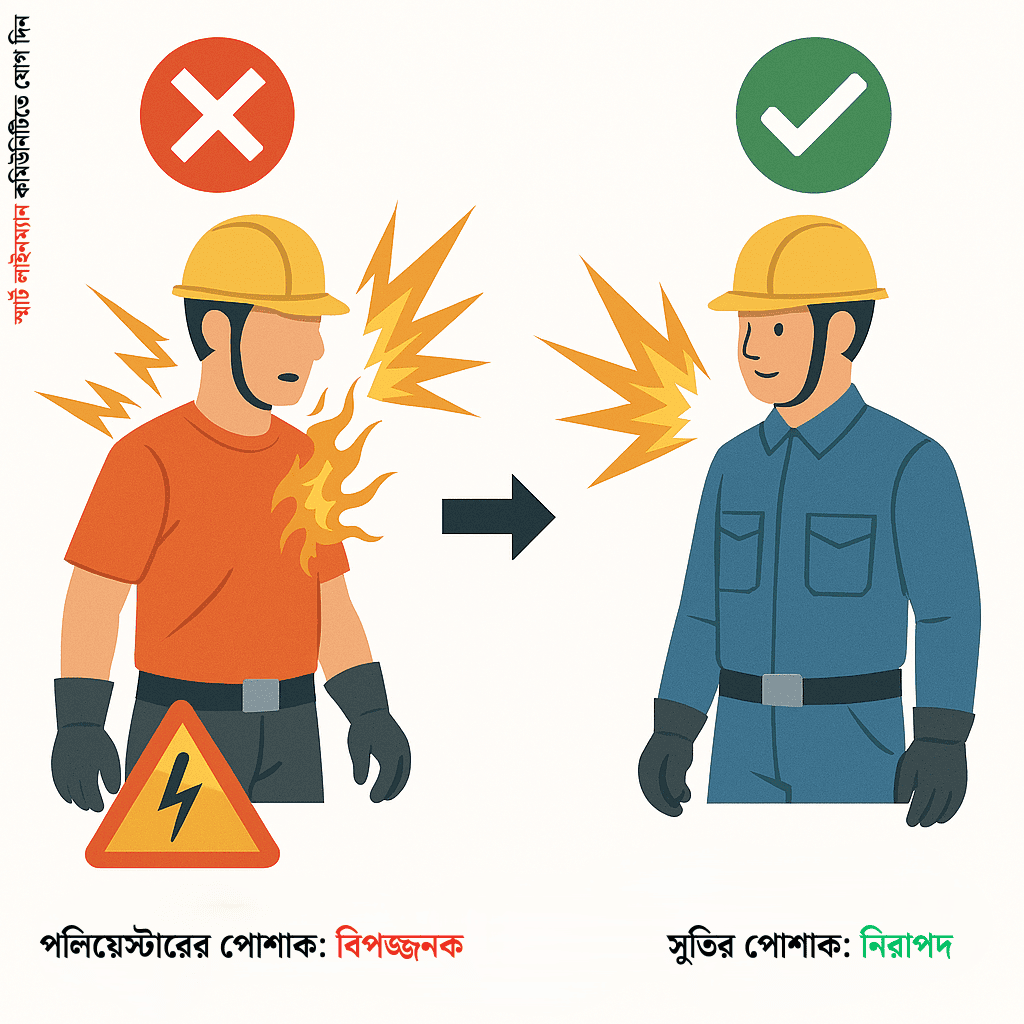
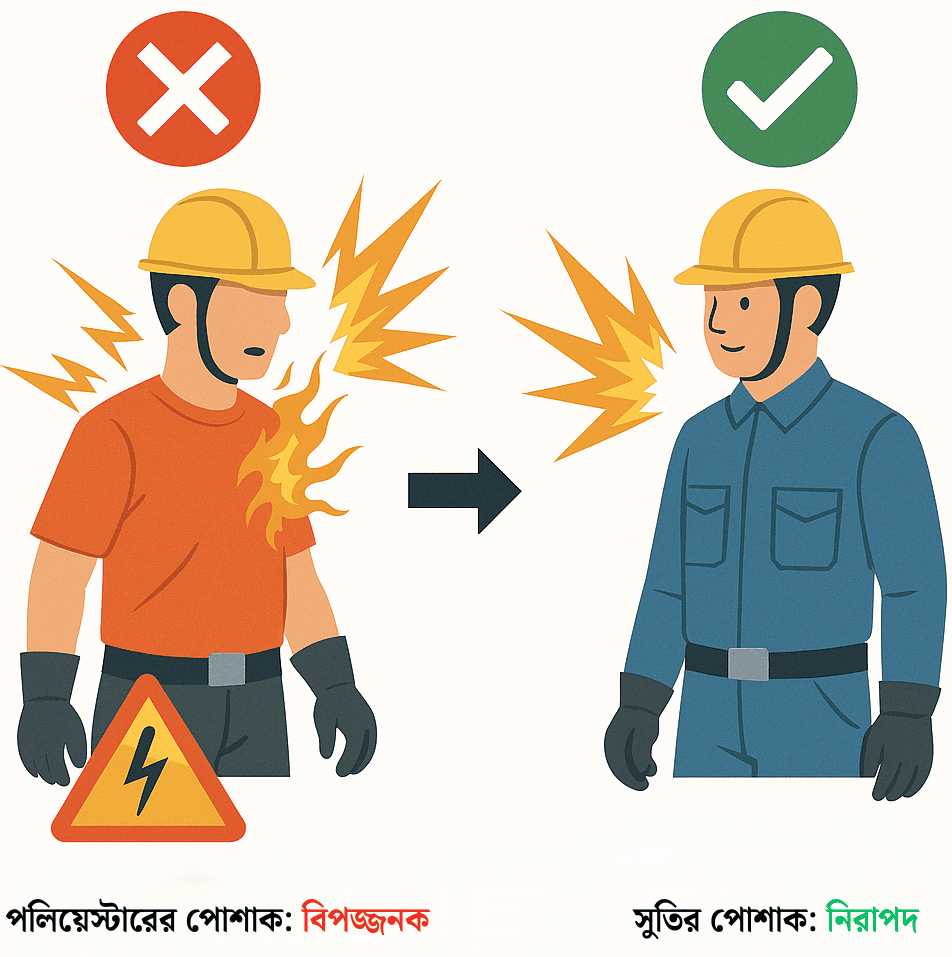
feat: add PPE images and captions to lesson 1.1
Add loader/faq PPE assets, inline figure captions, cleaner Training reader image layout, /images media URL support, and Supabase migration for versioned rollout.

diff --git a/src/components/safety/Training.jsx b/src/components/safety/Training.jsx
@@ -758,9 +758,17 @@ function TrainingInlineMediaChip({ isImage, resolvedMedia, labelText, authorLabe
     );
 }
 
-/** Lesson figure — matches Know More chapter step images (AroJanun). Tap opens enlarge modal. */
+/** Lesson figure — full-width card on topic cards; inline figures span their text box. Tap opens enlarge modal. */
 function TrainingLessonFigure({ src, alt, caption, onClick, language, className = '', inlineFloat = false }) {
     const enlargeLabel = language === 'en' ? 'Tap to enlarge' : 'বড় করে দেখতে ট্যাপ করুন';
+    const isInline = inlineFloat;
+
+    const buttonClass = isInline
+        ? `my-4 block w-full overflow-hidden bg-transparent p-0 text-left ${className}`
+        : `my-4 block w-full max-w-lg overflow-hidden bg-transparent p-0 text-left clear-both ${className}`;
+
+    const captionClass = `mb-2 text-center text-xs font-black text-slate-600 nb-mono ${language === 'bn' ? 'font-bengali' : ''}`;
+
     return (
         <button
             type="button"
@@ -770,14 +778,15 @@ function TrainingLessonFigure({ src, alt, caption, onClick, language, className 
                 onClick?.();
             }}
             title={enlargeLabel}
-            className={`my-4 block w-full max-w-lg overflow-hidden border-2 border-slate-900 bg-white p-2 text-left shadow-[4px_4px_0_#0f172a] transition-transform duration-150 hover:-translate-y-0.5 ${inlineFloat ? 'sm:float-right sm:ml-5 sm:mr-0 sm:shrink-0' : 'clear-both'} ${className}`}
+            aria-label={caption ? `${caption} — ${enlargeLabel}` : enlargeLabel}
+            className={buttonClass}
         >
             {caption && (
-                <p className="mb-2 border-b border-dashed border-slate-300 pb-2 text-center text-xs font-black text-slate-600 nb-mono">
+                <p className={captionClass}>
                     {caption}
                 </p>
             )}
-            <img src={src} alt={alt} className="h-auto w-full object-contain" loading="lazy" />
+            <img src={src} alt={alt} className="h-auto w-full rounded-sm object-contain" loading="lazy" />
         </button>
     );
 }
@@ -823,18 +832,23 @@ function SectionPointFullCard({
                     {point.image_name && (
                         <TrainingLessonFigure
                             src={resolveTrainingMediaSrc(point.image_name)}
-                            alt={point.item_name}
+                            alt={point.image_caption || point.item_name}
+                            caption={point.image_caption}
                             language={language}
                             className={readingComfort ? 'mb-7 sm:mb-9' : 'mb-8 sm:mb-10'}
-                            onClick={() => setActiveImageModal({ type: 'image', value: resolveTrainingMediaSrc(point.image_name) })}
+                            onClick={() => setActiveImageModal({
+                                type: 'image',
+                                value: resolveTrainingMediaSrc(point.image_name),
+                                caption: point.image_caption,
+                            })}
                         />
                     )}
 
                     <div className={readingComfort ? 'space-y-7 sm:space-y-10' : 'space-y-6 sm:space-y-8'}>
                         {point.specifications && (
-                            <p className={specCls}>
+                            <div className={`${specCls} space-y-2`}>
                                 {renderTextWithImages(point.specifications)}
-                            </p>
+                            </div>
                         )}
 
                         <div className={`grid grid-cols-1 ${readingComfort ? 'gap-7 sm:gap-8' : 'gap-6'}`}>
@@ -843,9 +857,9 @@ function SectionPointFullCard({
                                     <div className="flex items-center gap-3 mb-3 sm:mb-4">
                                         <span className="text-[10px] sm:text-xs font-black uppercase tracking-widest text-blue-700 nb-mono">{language === 'en' ? 'Strategy' : 'কৌশল'}</span>
                                     </div>
-                                    <p className={boxBody}>
+                                    <div className={boxBody}>
                                         {renderTextWithImages(point.importance)}
-                                    </p>
+                                    </div>
                                 </div>
                             )}
                             {point.daily_check && (
@@ -853,9 +867,9 @@ function SectionPointFullCard({
                                     <div className="flex items-center gap-3 mb-3 sm:mb-4">
                                         <span className="text-[10px] sm:text-xs font-black uppercase tracking-widest text-emerald-700 nb-mono">{language === 'en' ? 'Action Plan' : 'কর্মপরিকল্পনা'}</span>
                                     </div>
-                                    <p className={boxBody}>
+                                    <div className={boxBody}>
                                         {renderTextWithImages(point.daily_check)}
-                                    </p>
+                                    </div>
                                 </div>
                             )}
                         </div>
@@ -1883,19 +1897,23 @@ export default function Training({
                 );
             } else if (part.startsWith('[[') && part.endsWith(']]')) {
                 const inner = part.slice(2, -2).trim();
-                const pipeIdx = inner.indexOf('|');
-                const imgPathRaw = pipeIdx >= 0 ? inner.slice(0, pipeIdx).trim() : inner;
-                const layoutFlag = pipeIdx >= 0 ? inner.slice(pipeIdx + 1).trim().toLowerCase() : '';
-                const isInlineFigure = layoutFlag === 'inline';
+                const segments = inner.split('|').map((s) => s.trim());
+                const imgPathRaw = segments[0];
+                const isInlineFigure = segments.some((s) => s.toLowerCase() === 'inline');
+                const figureCaption = segments
+                    .slice(1)
+                    .filter((s) => s.toLowerCase() !== 'inline')
+                    .join(' | ') || undefined;
                 const resolvedSrc = resolveTrainingMediaSrc(imgPathRaw);
-                const openModal = () => setActiveImageModal({ type: 'image', value: resolvedSrc });
+                const openModal = () => setActiveImageModal({ type: 'image', value: resolvedSrc, caption: figureCaption });
 
                 if (isInlineFigure) {
                     return (
                         <TrainingLessonFigure
                             key={index}
                             src={resolvedSrc}
-                            alt=""
+                            alt={figureCaption || ''}
+                            caption={figureCaption}
                             language={language}
                             inlineFloat
                             onClick={openModal}
@@ -1907,7 +1925,8 @@ export default function Training({
                     <TrainingLessonFigure
                         key={index}
                         src={resolvedSrc}
-                        alt="Inline lesson helper"
+                        alt={figureCaption || 'Inline lesson helper'}
+                        caption={figureCaption}
                         language={language}
                         onClick={openModal}
                     />
@@ -4279,9 +4298,9 @@ export default function Training({
                                                                     <span className="mb-3 block text-[10px] font-black uppercase tracking-widest text-emerald-600 nb-mono">
                                                                         {language === 'en' ? 'Verdict' : 'আসল কথা'}
                                                                     </span>
-                                                                    <p className={`text-lg font-bold leading-[1.9] text-slate-900 sm:text-xl ${language === 'bn' ? 'font-bengali text-xl leading-[2.1] sm:text-2xl' : ''}`}>
+                                                                    <div className={`text-lg font-bold leading-[1.9] text-slate-900 sm:text-xl ${language === 'bn' ? 'font-bengali text-xl leading-[2.1] sm:text-2xl' : ''}`}>
                                                                         {renderTextWithImages(item.reality || item.fact)}
-                                                                    </p>
+                                                                    </div>
                                                                 </div>
                                                             </div>
                                                         ))}
@@ -4488,11 +4507,16 @@ export default function Training({
                             </button>
 
                             {activeImageModal.type === 'image' ? (
-                                <div className="flex min-h-0 flex-1 items-center justify-center bg-white p-4 pt-14 sm:p-8 sm:pt-16">
+                                <div className="flex min-h-0 flex-1 flex-col items-center justify-center bg-white p-4 pt-14 sm:p-8 sm:pt-16">
+                                    {activeImageModal.caption && (
+                                        <p className={`mb-3 max-w-full px-2 text-center text-xs font-black text-slate-600 nb-mono sm:text-sm ${language === 'bn' ? 'font-bengali' : ''}`}>
+                                            {activeImageModal.caption}
+                                        </p>
+                                    )}
                                     <img
                                         src={activeImageModal.value}
-                                        alt="Preview"
-                                        className="max-h-[min(78vh,800px)] max-w-full border-2 border-slate-900 object-contain shadow-[4px_4px_0_#0f172a]"
+                                        alt={activeImageModal.caption || 'Preview'}
+                                        className="max-h-[min(78vh,800px)] max-w-full rounded-sm object-contain"
                                     />
                                 </div>
                             ) : (

diff --git a/src/utils/trainingMediaUrl.js b/src/utils/trainingMediaUrl.js
@@ -13,13 +13,15 @@ export function getGoogleDriveDirectLink(url) {
 }
 
 /**
- * @param {string} mediaRef – filename under public quizzes, or https://... (Drive / CDN)
+ * @param {string} mediaRef – filename under public quizzes/images, or https://... (Drive / CDN)
  * @returns {string} URL safe for <img src>
  */
 export function resolveTrainingMediaSrc(mediaRef) {
     if (!mediaRef || typeof mediaRef !== 'string') return '';
     const s = mediaRef.trim();
     if (/^https?:\/\//i.test(s)) return getGoogleDriveDirectLink(s);
+    if (s.startsWith('/')) return s;
+    if (s.startsWith('images/')) return `/${s}`;
     return `/quizzes/${s.replace(/^\//, '')}`;
 }
 
